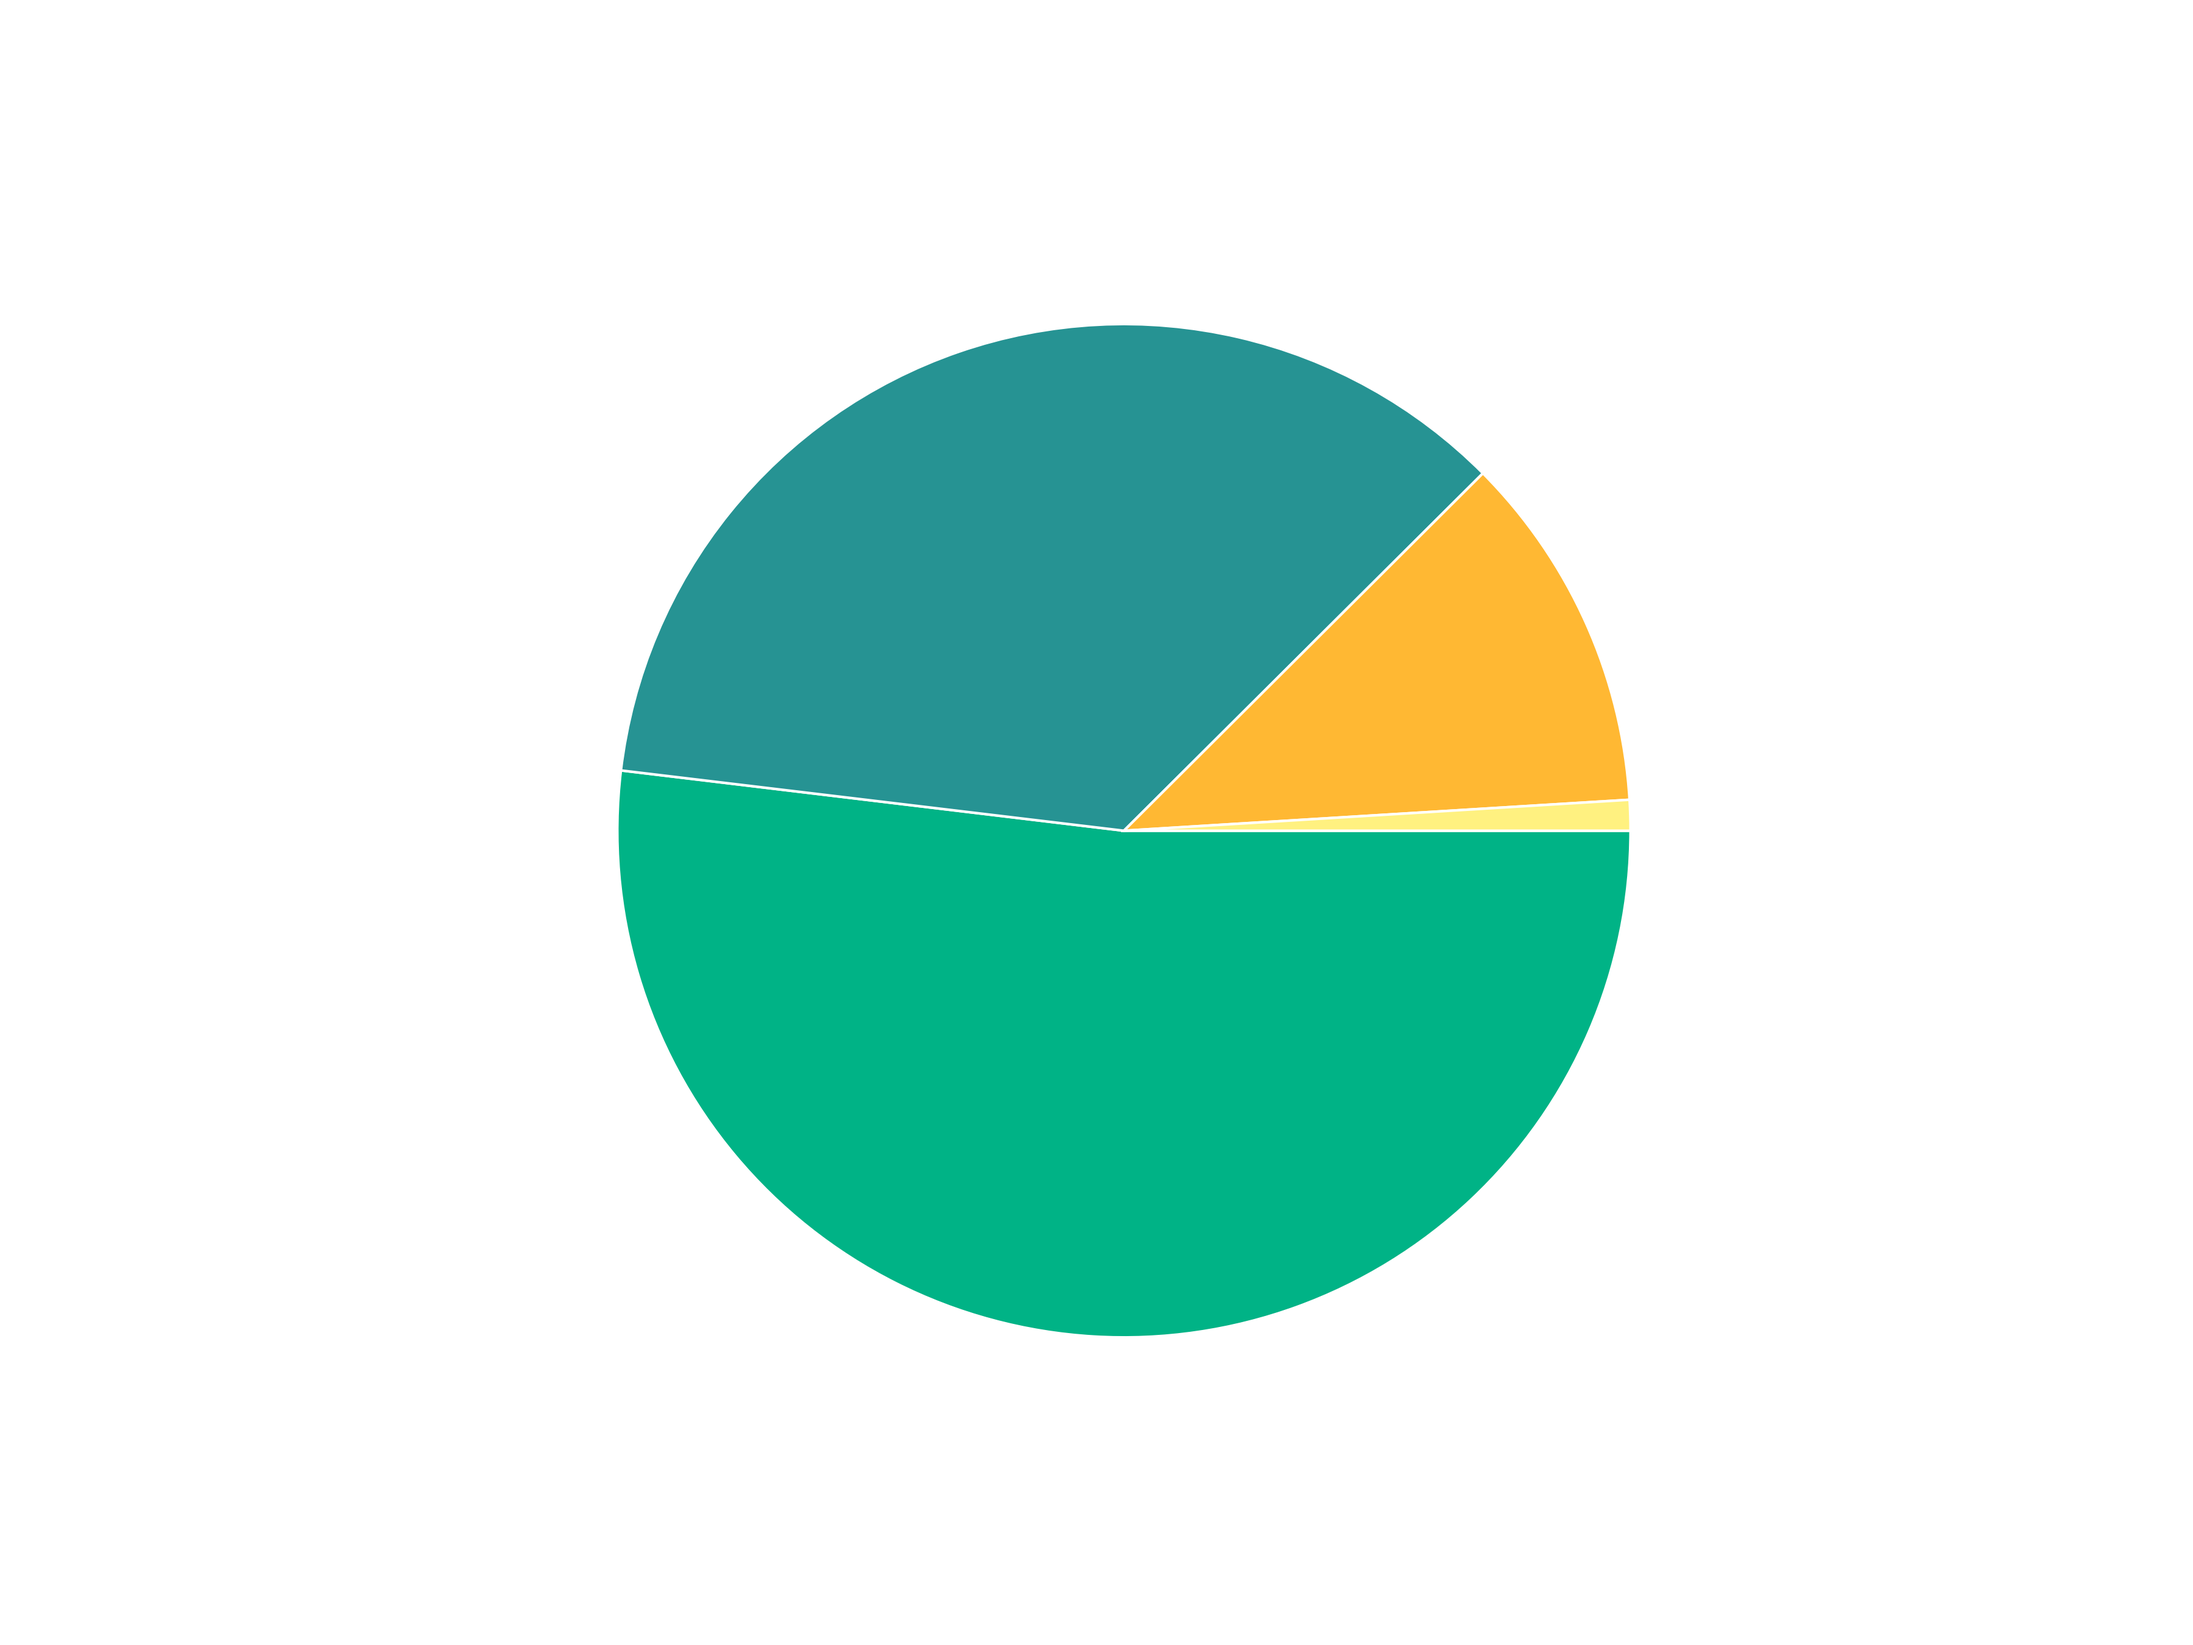
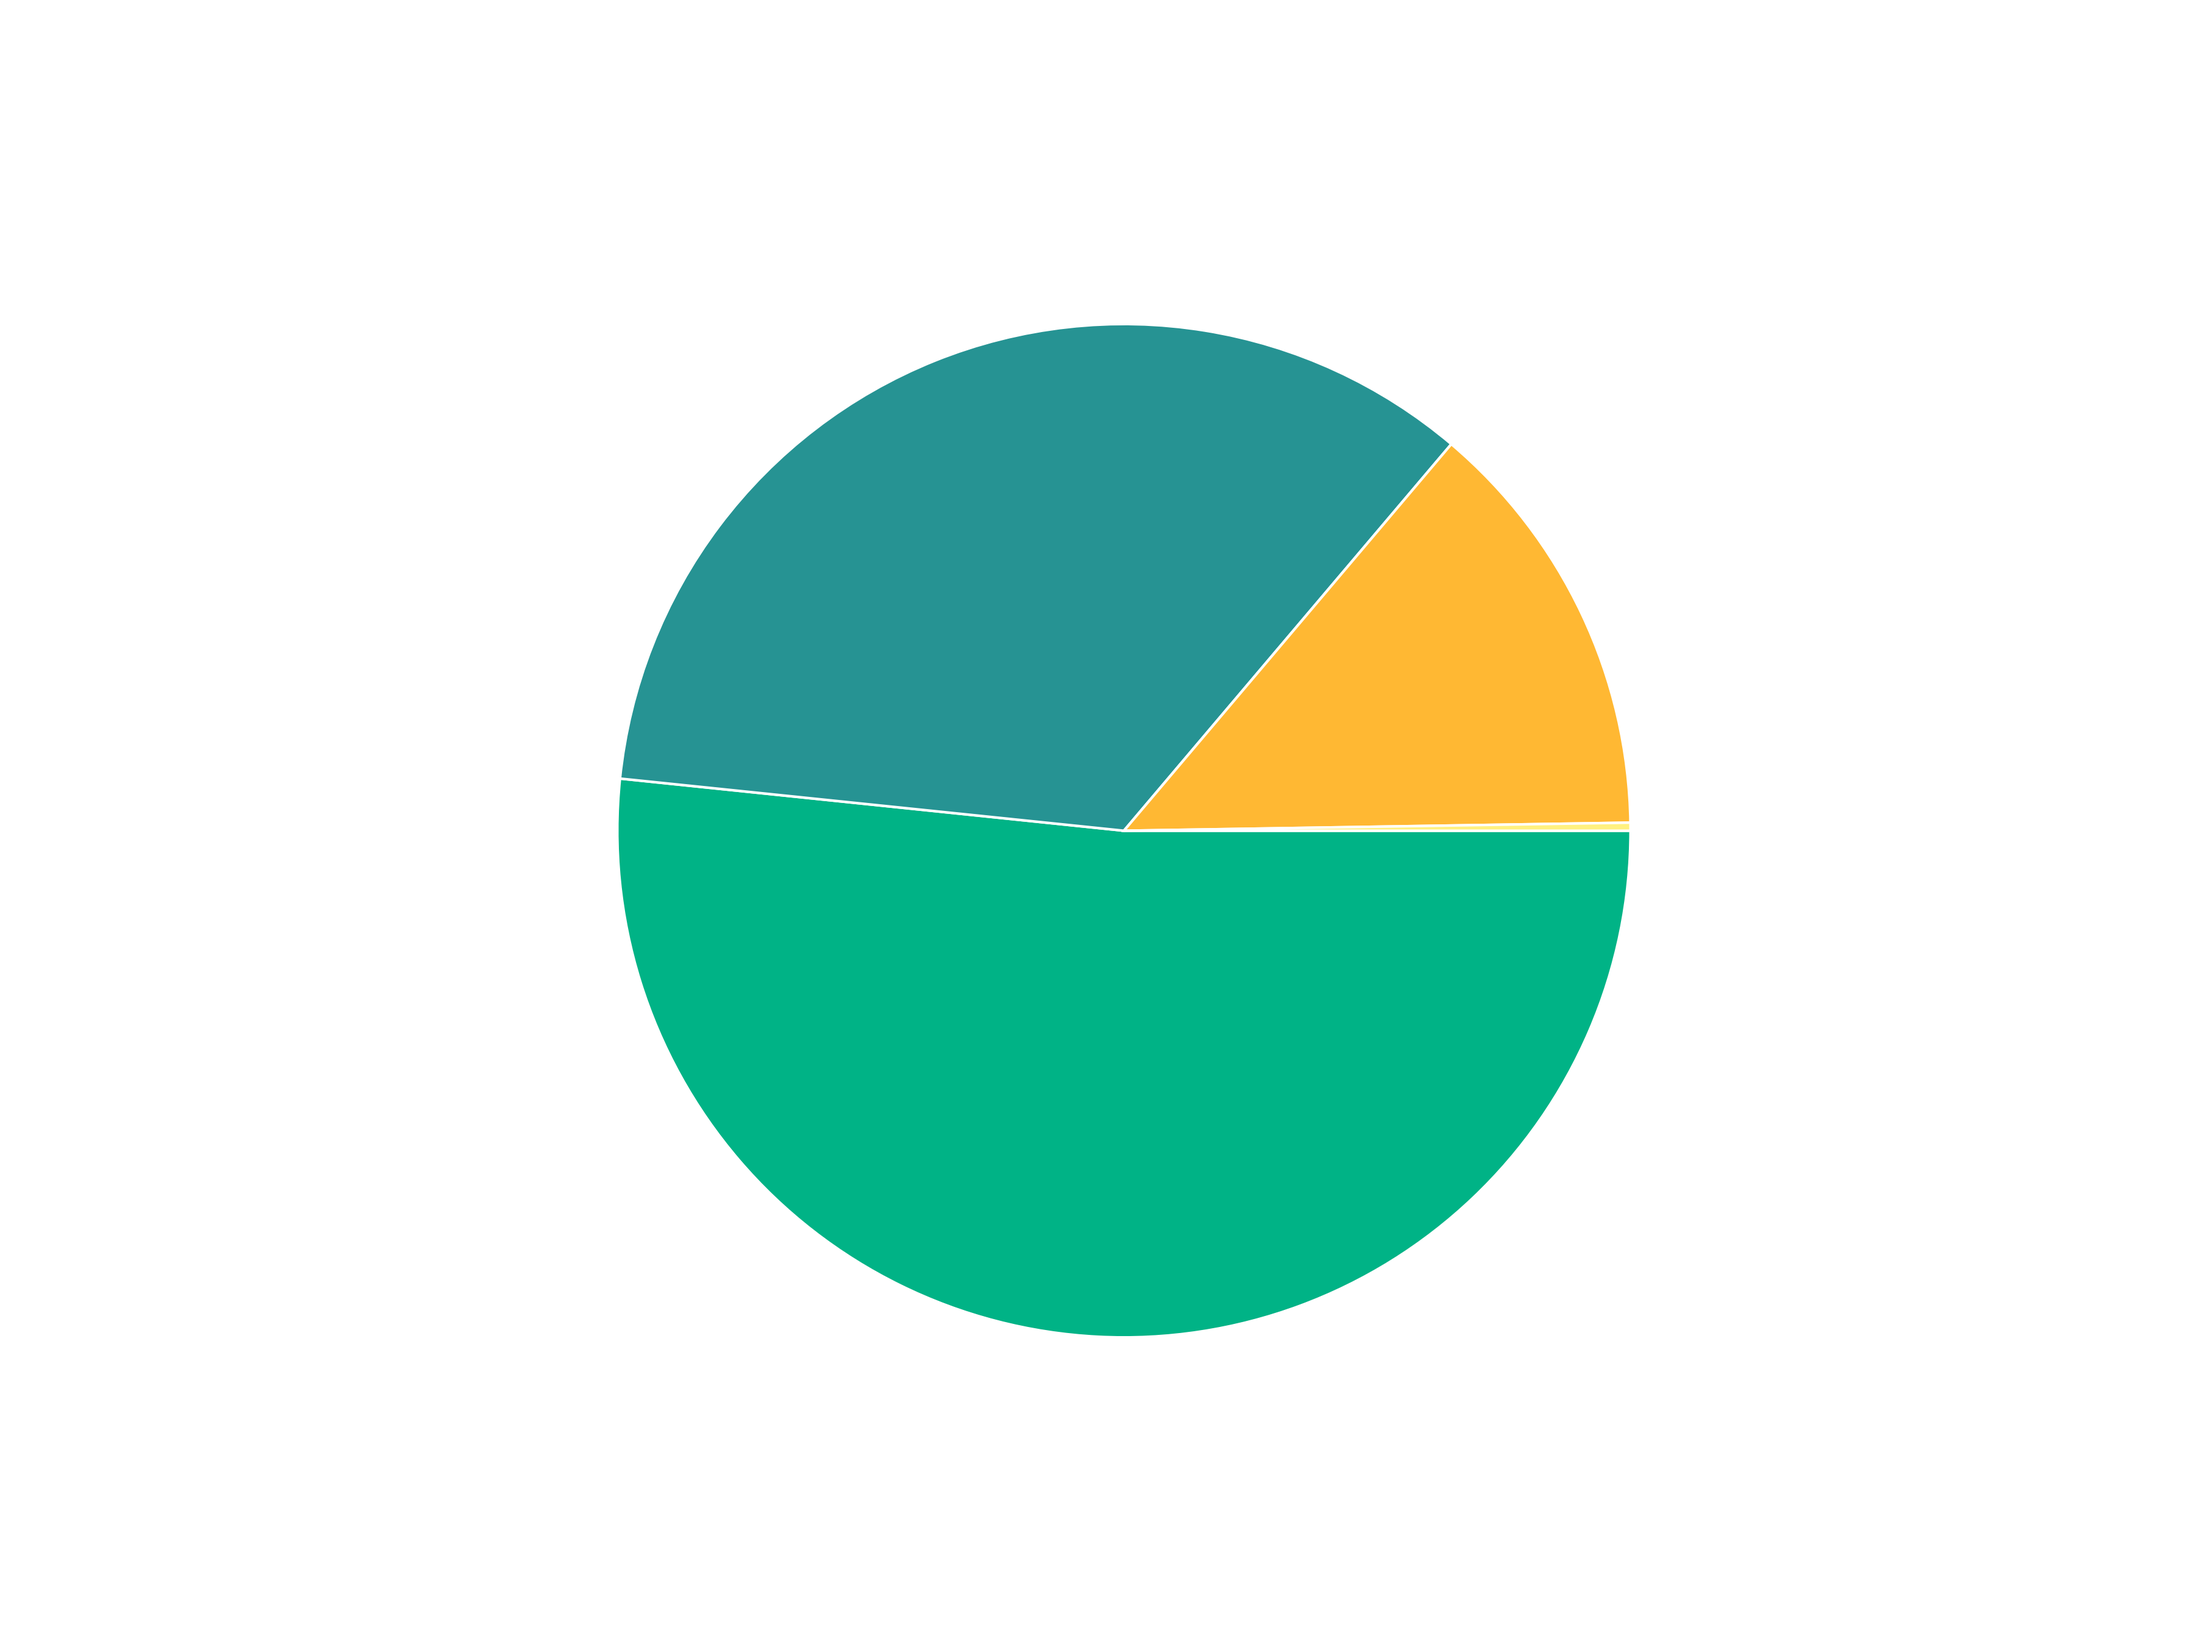
modified of ElectricityGen.py

diff --git a/Energy_Balance2021/PieChart/Elect_Consump.py b/Energy_Balance2021/PieChart/Elect_Consump.py
@@ -11,32 +11,27 @@ data = {'Domestic': 138745369,
         'Government': 55489598 - 1019437,
         'Street Lights':  1019437}
 
-df = pd.DataFrame(data)
-
+df = pd.DataFrame(data.values(), index=data.keys(), columns=['TOE'])
+df = df.sort_values('TOE', ascending=False)
 print(df)
+
 # 1st Pie Chart
-sectors = 'Domestic', '', '', ''
-Generation1 = [52.3, 35.1, 12.4, 0.8]
-Colors1 = ['#00b386', '#269393', '#ffb833', '#fff180']
+sectors = df.index.tolist()
+generation = df['TOE']
+colors1 = ['#00b386', '#269393', '#ffb833', '#fff180']
 explode1 = (0, 0, 0, 0)
+label_dist = 1.1
+wedge = {'linewidth': 1, 'edgecolor': 'white' }
+text = {'fontsize': 13, 'color': 'black'}
+print(sectors)
+print(generation)
 
- #########      GENERATE GRAPHIQUE      ##########
+# ------- GENERATE GRAPHIQUE ------- #
 
-# plt.pie(x=Generation1, labels=Energies1, colors=Colors1,
-#         labeldistance=1.1, #or None
-#         #explode=explode1,
-#         autopct=None, #or None
-#         shadow=False, startangle=-0, counterclock=False, frame=False,
-#        #center=(1.2,1.2),
-#         wedgeprops = { 'linewidth' : 1, 'edgecolor' : 'white' },
-#         textprops = {'fontsize': 13, 'color': 'black'},
-#         )
+figure(12, 9)
+pie_chart(generation, None, colors1, explode1, label_dist, wedge, text)
 
-#plt.title('Store Inventory')
-#plt.ylabel('Product')
-#plt.xlabel('Quantity')
+# ------- SAVE FIGURE ------- #
 
- ########       SAVE FIGURE     ##########
-
-#plt.savefig('Elect_Consump.png', transparent=True, dpi=300)
+plt.savefig('Elect_Consump.png', transparent=True, dpi=300)
 plt.show()

diff --git a/Energy_Balance2021/PieChart/Function_PieChart_Electricity_Gen.py b/Energy_Balance2021/PieChart/Function_PieChart_Electricity_Gen.py
@@ -1,13 +1,16 @@
 import matplotlib.pyplot as plt
 
+
 # Create function plt.
 def figure(length, width):
     plt.figure(figsize=(length, width))
 
 
-def pie_chart(x, labels, colors, explode):
+def pie_chart(x, labels, colors, explode=None, label_dist=None, wedge_prop=None, text_prop=None):
     plt.axis([0, 2.4, 0, 2.4])
-    plt.pie(x=x, labels=labels, colors=colors, explode=explode, labeldistance=None,
+    plt.pie(x=x, labels=labels, colors=colors, explode=explode, labeldistance=label_dist,
+            wedgeprops=wedge_prop,
+            textprops=text_prop,
             autopct=None, shadow=False, startangle=-0, counterclock=False, frame=False,
             center=(1.2, 1.2))
 
